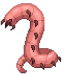
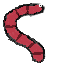
Update

diff --git a/src/Ability.java b/src/Ability.java
@@ -14,9 +14,9 @@ public class Ability {
         switch (abilitynum) {
             case 0: image = Util.loadImage("lib/2x.png");
             break;
-            case 1: image = Util.loadImage("lib/wormb.png");
+            case 1: image = Util.loadImage("lib/Schild.png");
             break;
-            case 2: image = Util.loadImage("lib/bird.png");
+            case 2: image = Util.loadImage("lib/Verlangsamung.png");
             break;
         }
 

diff --git a/src/Worm.java b/src/Worm.java
@@ -51,7 +51,7 @@ public class Worm {
         r.y = y;
 
         if (image == null) {
-            image = Util.loadImage("lib/wormb.png");
+            image = Util.loadImage("lib/worm.png");
         }
         r.image = image;
 
